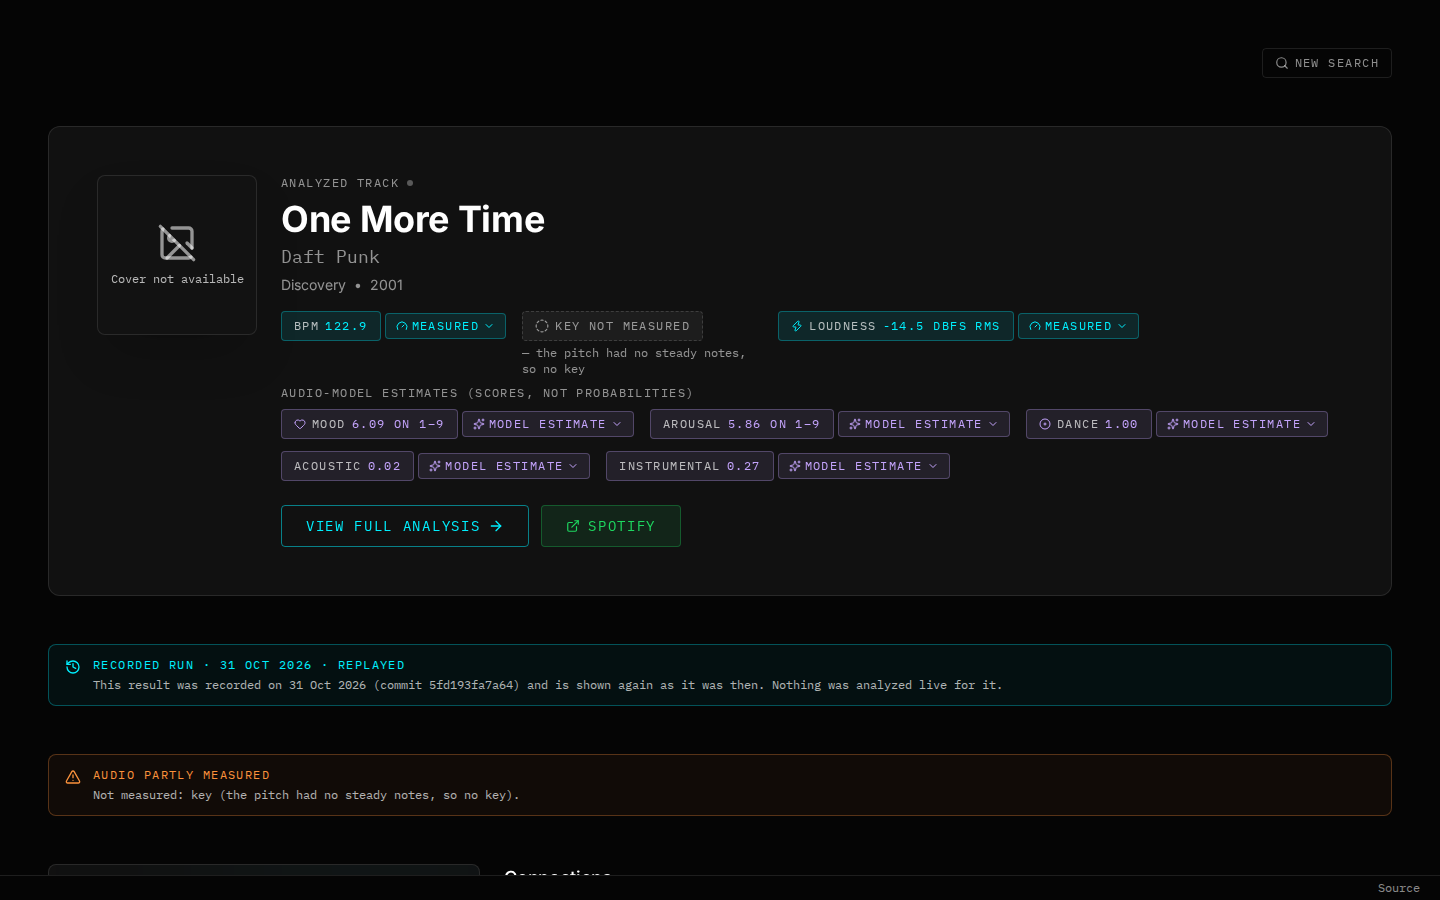
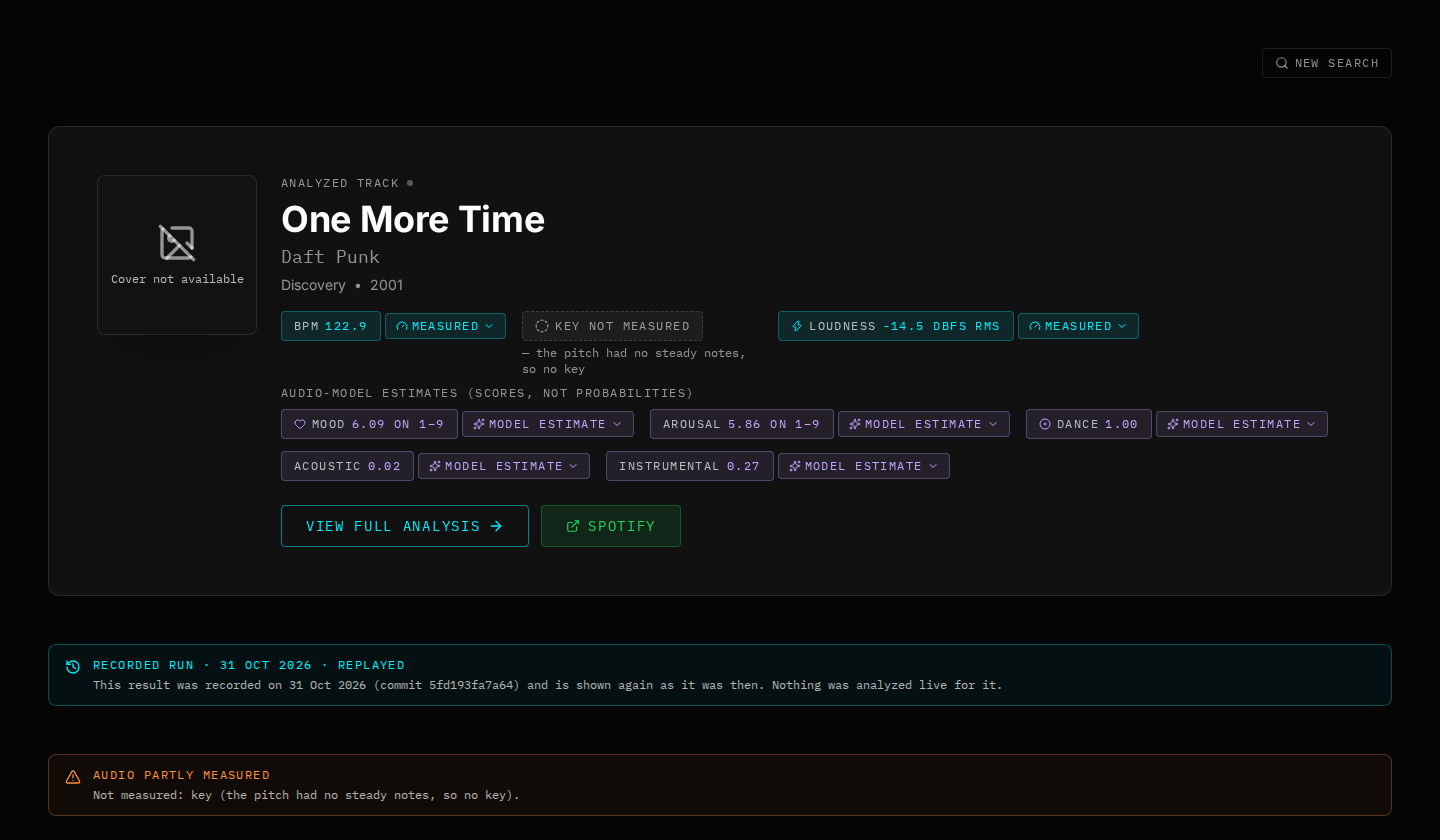
docs: frame the dashboard and map screenshots, and guard the screenshot run

diff --git a/README.md b/README.md
@@ -40,12 +40,14 @@ values never come from the model.
 | --- | --- |
 | ![The search page](docs/images/search.png) | ![The Player of One More Time, with its sourced notes](docs/images/player.png) |
 
-![The song-relations map of One More Time, with its retrieved sample and remix links](docs/images/map.png)
+![The song-relations map of Hung Up (Madonna), with its retrieved sample and remix links](docs/images/map.png)
 
 The screenshots are taken from the showcase replays by `node scripts/readme-shots.mjs` (it starts
-the API with `REPLAY_MODE=only` and dummy keys, and the web app, on free local ports; see the
-script's header). The browser loads nothing from outside the page's origin, so the album cover
-shows as not available; `--covers` lets the Cover Art Archive's image load.
+the API with `REPLAY_MODE=only` and dummy keys, and the web app, on free local ports, with
+outbound network denied; see the script's header). The map is Hung Up's, whose timeline fits the
+1440 px window; One More Time's runs past its right edge. The browser loads nothing from outside
+the page's origin, so the album cover shows as not available; `--covers` lets the Cover Art
+Archive's image load.
 
 ## The showcase
 
